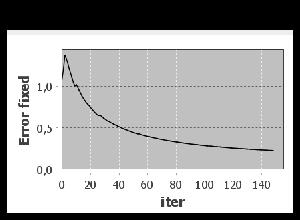
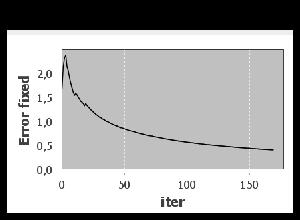
NetworkMemoryInterface<S> getMemory()

diff --git a/src/main/java/multi_step_temp_diff/domain/trainer/NStepNeuralAgentTrainer.java b/src/main/java/multi_step_temp_diff/domain/trainer/NStepNeuralAgentTrainer.java
@@ -7,11 +7,13 @@ import lombok.NonNull;
 import lombok.Setter;
 import lombok.extern.java.Log;
 import multi_step_temp_diff.domain.agent_abstract.AgentNeuralInterface;
+import multi_step_temp_diff.domain.agent_abstract.NetworkMemoryInterface;
 import multi_step_temp_diff.domain.agent_parts.NstepExperience;
 import multi_step_temp_diff.domain.agent_parts.ReplayBufferNStepUniform;
 import multi_step_temp_diff.domain.environment_abstract.EnvironmentInterface;
 import multi_step_temp_diff.domain.agent_abstract.ReplayBufferInterface;
 import multi_step_temp_diff.domain.agent_abstract.StateInterface;
+import multi_step_temp_diff.domain.environments.charge.ChargeVariables;
 import multi_step_temp_diff.domain.helpers_common.AgentInfo;
 import multi_step_temp_diff.domain.helpers_common.NStepTDHelper;
 import multi_step_temp_diff.domain.trainer_valueobj.NStepNeuralAgentTrainerSettings;
@@ -67,7 +69,8 @@ public class NStepNeuralAgentTrainer<S> implements Callable<NStepNeuralAgentTrai
                 executeIfTrue(isPossibleToGetExperience.test(helper.tau), () ->
                         buffer.addExperience(getExperienceAtTimeTau(),timer));
                 executeIfTrue(isEnoughItemsInBuffer.test(buffer.size(), settings), () -> {
-                    var miniBatch = getMiniBatch(buffer);
+                    var miniBatch = buffer.getMiniBatch(settings.batchSize());
+                    setValuesInExperiencesInMiniBatch(miniBatch,agentNeural.getMemory());
                     trainAgentMemoryFromExperiencesInMiniBatch(miniBatch);
                     trackTempDifferenceError(miniBatch);
                 });
@@ -100,11 +103,11 @@ public class NStepNeuralAgentTrainer<S> implements Callable<NStepNeuralAgentTrai
                 isNotToManySteps.test(helper.timeCounter, settings.maxStepsInEpisode());
     }
 
-    private List<NstepExperience<S>> getMiniBatch(ReplayBufferInterface<S> buffer) {
+  /*  private List<NstepExperience<S>> getMiniBatch(ReplayBufferInterface<S> buffer) {
         var miniBatch = buffer.getMiniBatch(settings.batchSize());
-        setValuesInExperiencesInMiniBatch(miniBatch);
+       // setValuesInExperiencesInMiniBatch(miniBatch);
         return miniBatch;
-    }
+    }*/
 
     private void trainAgentMemoryFromExperiencesInMiniBatch(List<NstepExperience<S>> miniBatch) {
         for (int i = 0; i < settings.nofIterations(); i++) { //todo remove
@@ -123,11 +126,13 @@ public class NStepNeuralAgentTrainer<S> implements Callable<NStepNeuralAgentTrai
     }
 
 
-    private void setValuesInExperiencesInMiniBatch(List<NstepExperience<S>> miniBatch) {
+    private void setValuesInExperiencesInMiniBatch(List<NstepExperience<S>> miniBatch, NetworkMemoryInterface<S> memory) {
         double discount = helper.getDiscount();
         for (NstepExperience<S> exp : miniBatch) {
             exp.value = (exp.isBackupStatePresent)
-                    ? exp.sumOfRewards + discount * agentNeural.readValue(exp.stateToBackupFrom)
+                    //? exp.sumOfRewards + discount * agentNeural.readValue(exp.stateToBackupFrom)
+                    ? exp.sumOfRewards + discount * memory.read(exp.stateToBackupFrom)
+
                     : exp.sumOfRewards;
         }
     }

diff --git a/src/main/java/multi_step_temp_diff/domain/agent_abstract/AgentNeuralInterface.java b/src/main/java/multi_step_temp_diff/domain/agent_abstract/AgentNeuralInterface.java
@@ -2,6 +2,7 @@ package multi_step_temp_diff.domain.agent_abstract;
 
 import multi_step_temp_diff.domain.agent_parts.NstepExperience;
 import multi_step_temp_diff.domain.agent_valueobj.AgentSettingsInterface;
+import multi_step_temp_diff.domain.environments.charge.ChargeVariables;
 
 import java.util.List;
 
@@ -10,5 +11,6 @@ public interface AgentNeuralInterface<S> extends AgentInterface<S> {
     AgentSettingsInterface getAgentSettings();
     void saveMemory(String fileName);
     void loadMemory(String fileName);
+    NetworkMemoryInterface<S> getMemory();
 
 }

diff --git a/src/main/java/multi_step_temp_diff/domain/agent_abstract/ValueMemoryNetworkAbstract.java b/src/main/java/multi_step_temp_diff/domain/agent_abstract/ValueMemoryNetworkAbstract.java
@@ -132,7 +132,7 @@ public abstract class ValueMemoryNetworkAbstract<S> implements NetworkMemoryInte
     @SneakyThrows
     @Override
     public NetworkMemoryInterface<S> copy() {
-        throw new NoSuchMethodException();
+        throw new NoSuchMethodException();  //throwing if not defined in concrete class
     }
 
     @Override
